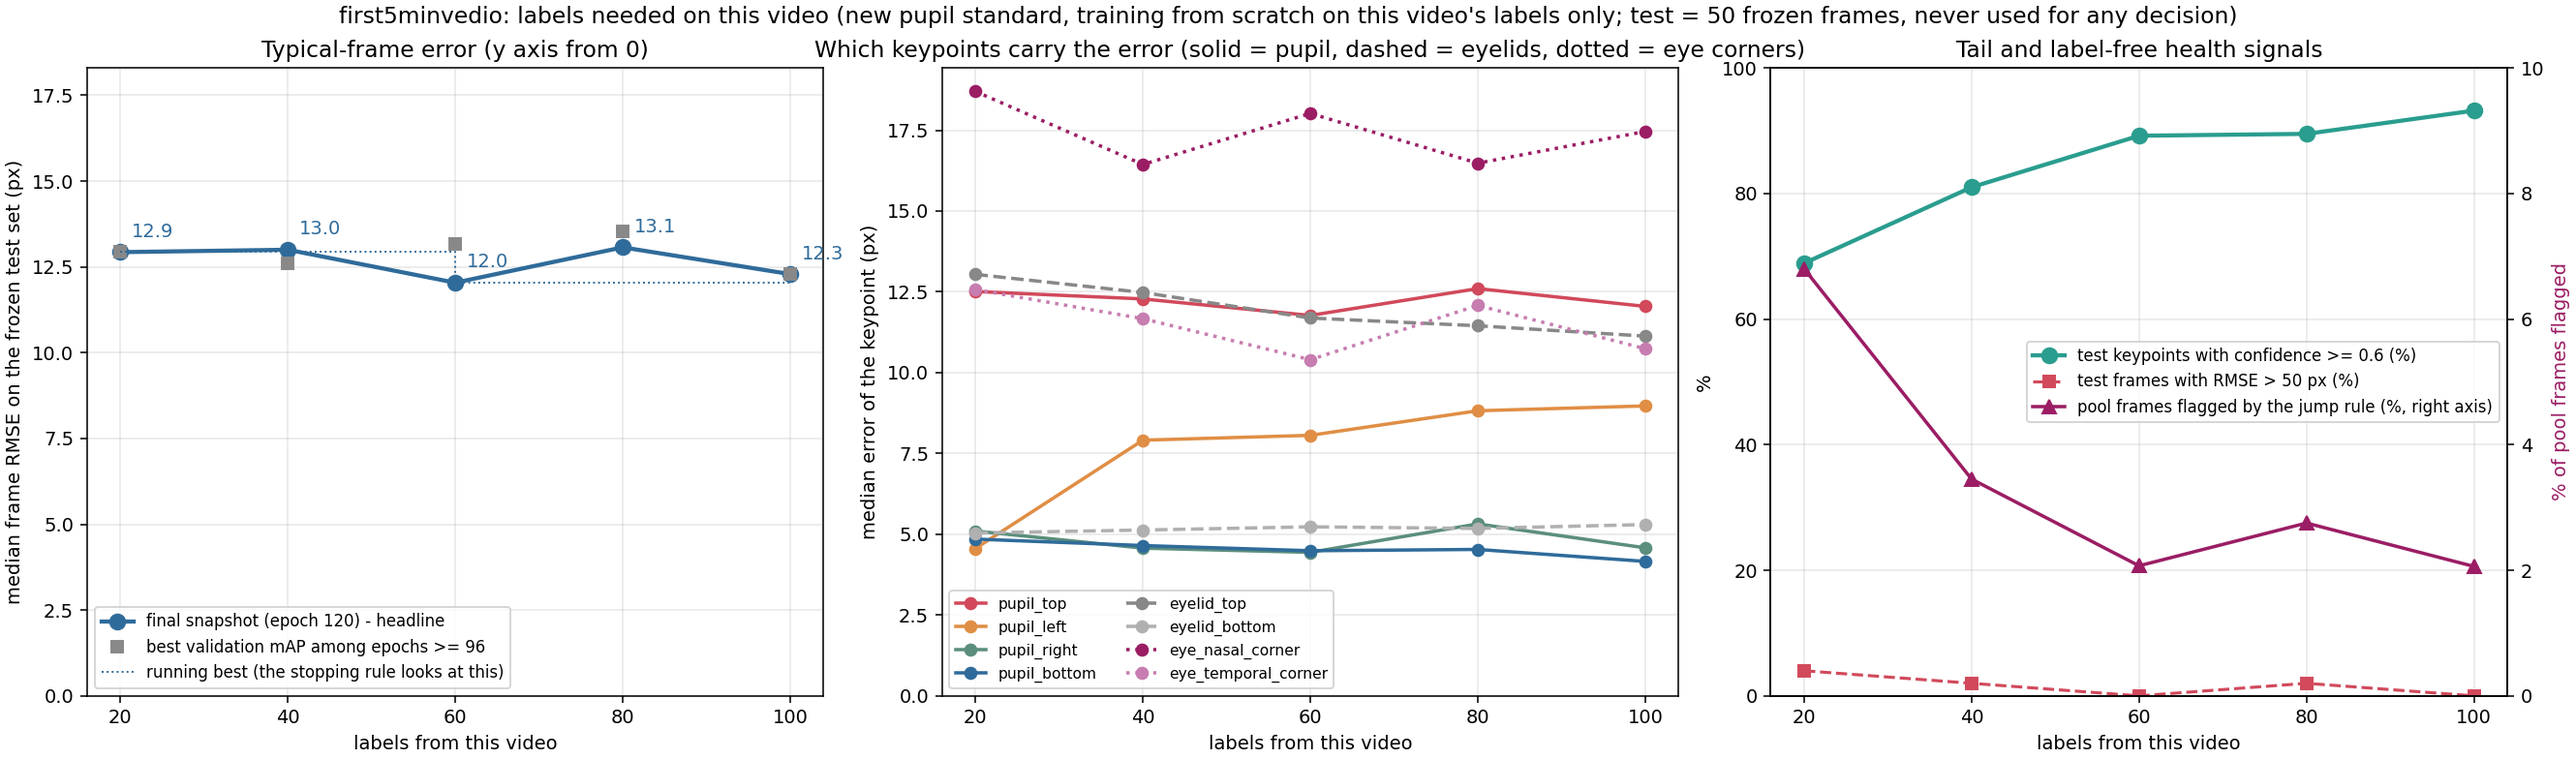
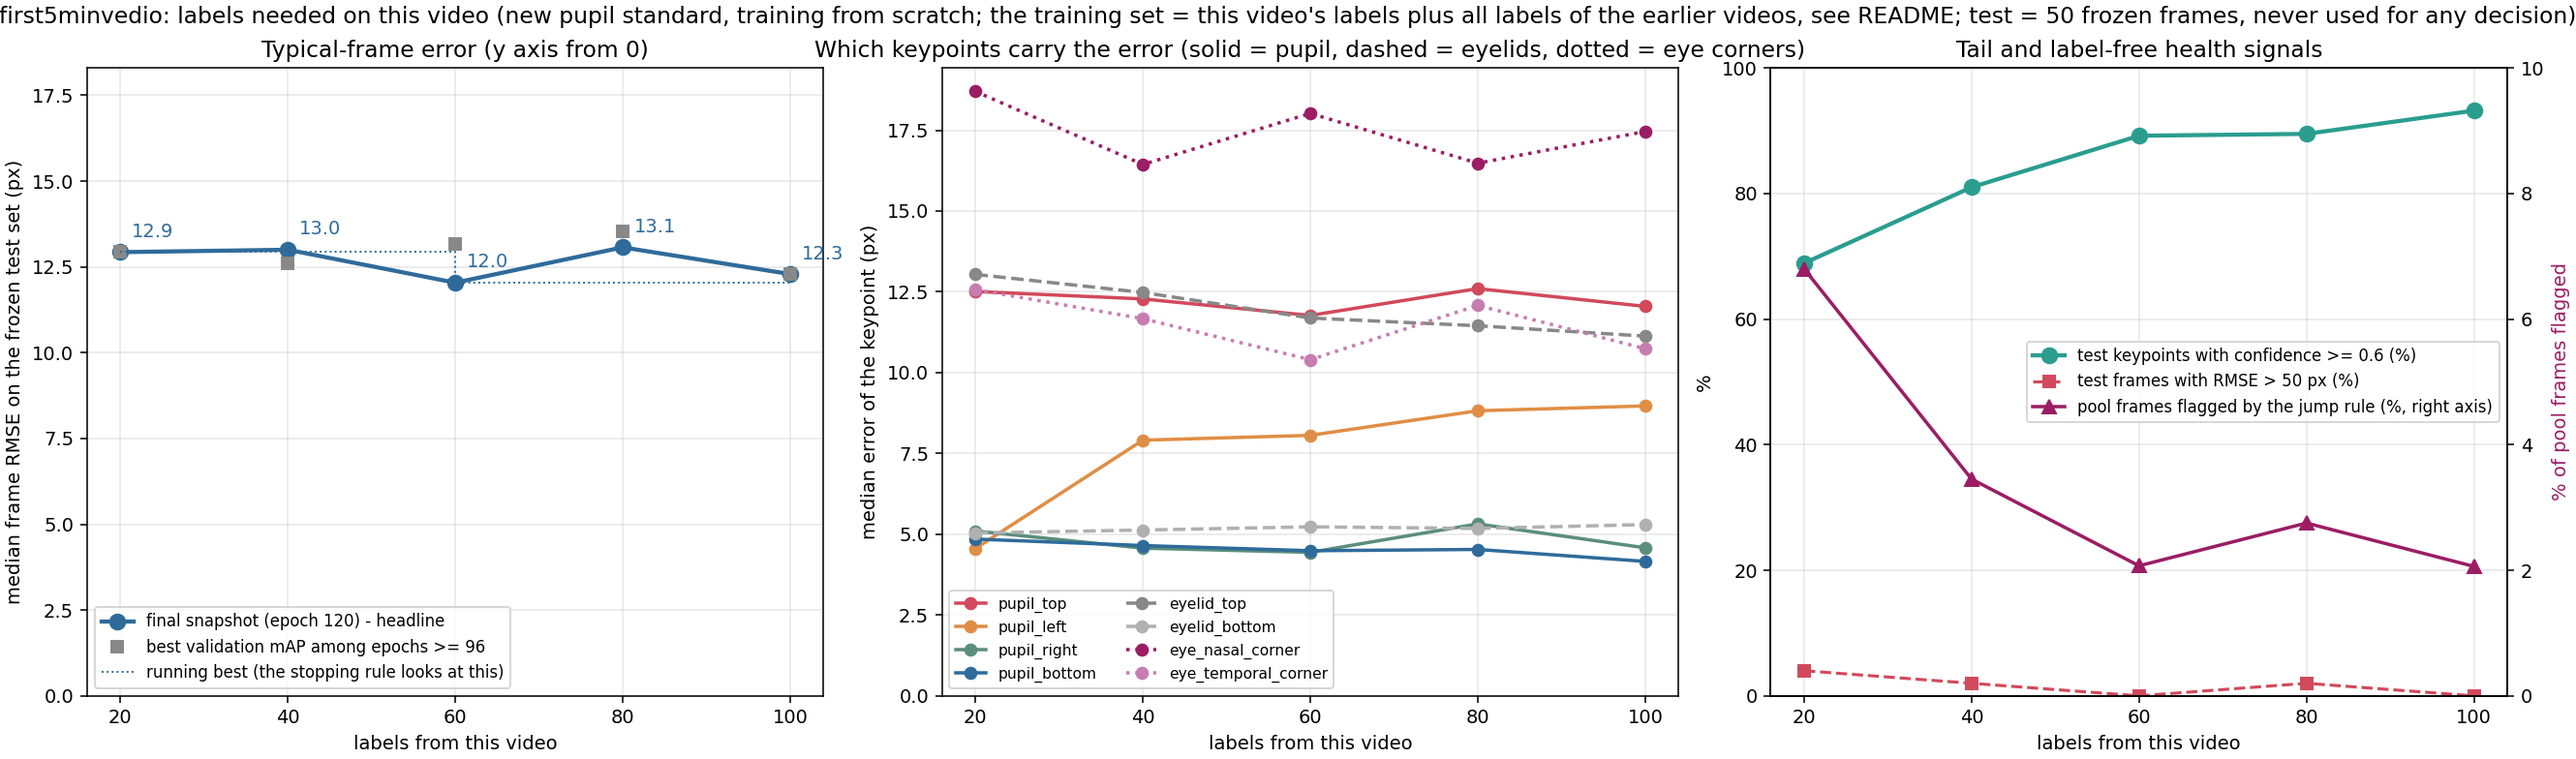
Video 2 (Pluto): steps 1-4 scored on the frozen test set; plateau at 20 labels
Test set frozen 2026-09-22 (50 frames, sha256 5411047a...). Final-snapshot
median frame RMSE for 20/40/60/80 Pluto labels (+ all 100 video-1 labels):
10.37 / 12.17 / 11.35 / 11.59 px. The plateau rule fires at 60 labels, so the
plateau point is 20 labels for this video. Jump-flagged pool frames
21% -> 11% -> 6% -> 6%; confident test keypoints 59% -> 82%. Batch 05 selected
(selection_100_frames.png) but not trained.

Across-video table started in results/README.md (video 1: 60 labels, video 2:
20 labels). run_step.sh: also accept the 'snapshot_best-120' prediction file
name (epoch 120 was the best validation epoch at step 4, so the batch-05
selection had to be run by hand). Plot title now states that earlier videos'
labels are part of the training set.

Changed region(s): [[0.0, 0.0, 1.0, 0.0306]]

diff --git a/new_pupil_top_video_scaling/scripts/plot_scale_curve.py b/new_pupil_top_video_scaling/scripts/plot_scale_curve.py
@@ -50,7 +50,7 @@ else:
     ax.legend(fontsize=8.5, loc="center right")
 ax.set_title("Tail and label-free health signals")
 n = int(d["n_test_frames"].iloc[0])
-fig.suptitle(f"{a.unit}: labels needed on this video (new pupil standard, training from scratch on this video's labels only; "
-             f"test = {n} frozen frames, never used for any decision)", fontsize=12)
+fig.suptitle(f"{a.unit}: labels needed on this video (new pupil standard, training from scratch; the training set = this video's "
+             f"labels plus all labels of the earlier videos, see README; test = {n} frozen frames, never used for any decision)", fontsize=12)
 fig.savefig(R / "scale_curve.png", dpi=140)
 print(head[[x, "median_frame_rmse_px", "p90_frame_rmse_px", "frac_frames_rmse_gt_50px", "frac_points_conf_ge_0.6"]].to_string(index=False))

diff --git a/new_pupil_top_video_scaling/20251031_Pluto_spont_1/results/README.md b/new_pupil_top_video_scaling/20251031_Pluto_spont_1/results/README.md
@@ -2,6 +2,28 @@
 
 Scale curve within this video under the new pupil standard. Training = ALL 100 labels of video 1
 (`first5minvedio`, batches 01-05) + N labels of this video, from scratch; validation = this video's val20;
-test = this video's 50 frozen test frames. The point at N = 0 is the video-1 model applied unchanged.
+test = this video's 50 frozen test frames (`training-data/labels/test_frozen/test50_labels.h5`,
+sha256 `5411047aae9258bd…`; frozen 2026-09-22 after a read-only check, never edited since).
 Reference from the old label standard (not comparable in px): trained with 676 old-mouse labels, this video
 reached its plateau at about 80 labels.
+
+## Result (final snapshot = epoch 120, median frame RMSE over the 50 test frames)
+
+| labels of this video | median | p90 | frames > 50 px | keypoints conf >= 0.6 | pool frames flagged by the jump rule |
+|---|---|---|---|---|---|
+| 20 | **10.37 px** | 21.6 | 4% | 59% | 12,060 (21%) |
+| 40 | 12.17 px | 20.3 | 0% | 75% | 6,229 (11%) |
+| 60 | 11.35 px | 19.7 | 2% | 74% | 3,564 (6%) |
+| 80 | 11.59 px | 19.8 | 0% | 82% | 3,521 (6%) |
+
+Plateau rule fired at 60 labels: the running best (10.37 px at 20 labels) was not improved by the 40- and
+60-label steps -> **plateau = 20 labels** for this video when the 100 labels of video 1 are in the training set.
+The 1-px differences between steps are within the sampling noise of a 50-frame median; the tail (p90, failed
+frames, confidence) and the jump-flagged fraction kept improving up to 60-80 labels.
+
+Per keypoint (median error, px): pupil_left stays the worst pupil point (13.0 -> 12.6), pupil_right the best
+(4.2 -> 3.3); the two eye corners are 7-14 px, eyelid_top ~7.5, eyelid_bottom ~5.
+
+Files: `scale_curve.csv/png`, `jump_flagged.csv`, `selection_040/060/080/100_frames.png` (how each batch was
+chosen: jump rule on the previous model's whole-video prediction, then k-means among the flagged frames).
+Batch 05 (for 100 labels) is selected but not trained.

diff --git a/new_pupil_top_video_scaling/results/README.md b/new_pupil_top_video_scaling/results/README.md
@@ -2,3 +2,20 @@
 
 The final deliverable of this unit: labels needed to reach the plateau (y) against the number of videos
 already in the training set (x). One point per video, taken from `<video>/results/`.
+
+Plateau rule (same for every video): running best of the final-snapshot series (median frame RMSE on that
+video's 50 frozen test frames); the plateau is reached when two consecutive 20-label steps each improve the
+running best by <= 3%. The plateau point is the last step that still improved it.
+
+| video | mouse / length | labels of earlier videos in the training set | final-snapshot series (px, 20/40/60/80/100 labels) | plateau | error at plateau |
+|---|---|---|---|---|---|
+| 1 `first5minvedio` | mouse A, 5.0 min | 0 | 12.93 / 13.00 / 12.04 / 13.07 / 12.29 | **60 labels** | 12.04 px |
+| 2 `20251031_Pluto_spont_1` | mouse B, 19.9 min | 100 (all of video 1) | 10.37 / 12.17 / 11.35 / 11.59 / – | **20 labels** | 10.37 px |
+
+Notes
+- With 50 test frames the median moves by about 1 px between neighbouring steps from sampling alone, so the
+  3% rule is at the noise floor; differences of 1 px between steps of the same video are not meaningful.
+- Video 2, label-free signals kept improving after the median flattened: pool frames flagged by the jump rule
+  21% -> 11% -> 6% -> 6% (steps 1-4), test keypoints with confidence >= 0.6: 59% -> 75% -> 74% -> 82%.
+- Video 2, step 5 (100 labels) was selected (`selection_100_frames.png`) but not trained; whether to run it for
+  a full 5-point curve like video 1 is an open decision.
